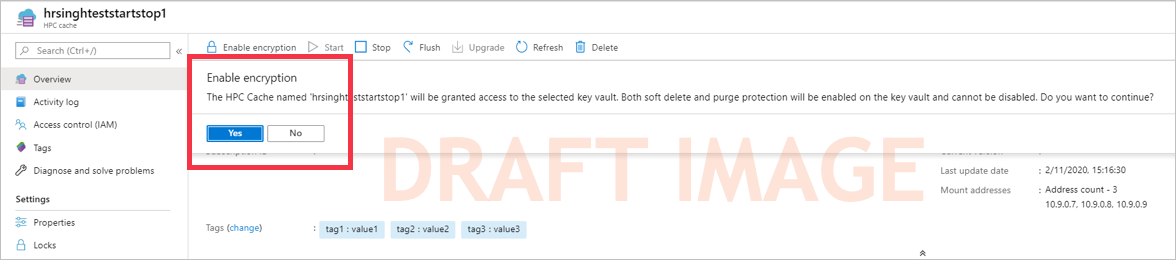
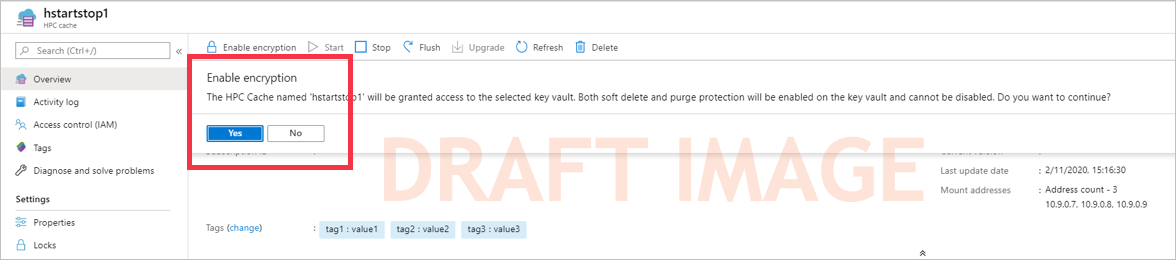
hpc-cache: update mtu, remove PII from draft images

Changed region(s): [[0.2755, 0.3385, 0.9796, 0.4], [0.0306, 0.0308, 0.1531, 0.0923]]

diff --git a/articles/hpc-cache/configuration.md b/articles/hpc-cache/configuration.md
@@ -4,7 +4,7 @@ description: Explains how to configure additional settings for the cache like MT
 author: ekpgh
 ms.service: hpc-cache
 ms.topic: conceptual
-ms.date: 03/19/2020
+ms.date: 03/20/2020
 ms.author: rohogue
 ---
 
@@ -26,11 +26,13 @@ You can select the maximum transmission unit size for the cache by using the dro
 The default value is 1500 bytes, but you can change it to 1400.
 
 > [!NOTE]
-> If your back-end storage system sends packets larger than the cache's MTU setting, those packets might be blocked.
+> If you lower the cache's MTU size, make sure that the clients and storage systems that communicate with the cache have the same MTU setting or a lower value.
 
-Lowering the cache MTU value can help you work around packet size restrictions in the rest of the cache's network. For example, some VPNs can't handle full-size 1500 byte packets. If you can set both the back-end system's MTU and the cache's MTU to send smaller packets, that can eliminate the VPN size issue.
+Lowering the cache MTU value can help you work around packet size restrictions in the rest of the cache's network. For example, some VPNs can't transmit full-size 1500 byte packets successfully. Reducing the size of packets sent over the VPN might eliminate that issue. However, note that a lower cache MTU setting means that any other component that communicates with the cache - including clients and storage systems - must also have a lower setting to avoid communication problems with the cache.
 
-On the other hand, if you can't control the size of the storage system's packets, you should research another solution. Using MSS clamping on the VPN might help. Read [Adjust VPN packet size restrictions](troubleshoot-nas.md#adjust-vpn-packet-size-restrictions) in the NAS troubleshooting article to learn more about diagnosing and addressing this problem.
+If you don't want to change the MTU settings on other system components, you should not lower the cache's MTU setting. There are other solutions to work around VPN packet size restrictions. Read [Adjust VPN packet size restrictions](troubleshoot-nas.md#adjust-vpn-packet-size-restrictions) in the NAS troubleshooting article to learn more about diagnosing and addressing this problem.
+
+Learn more about MTU settings in Azure virtual networks by reading [TCP/IP performance tuning for Azure VMs](../virtual-network/virtual-network-tcpip-performance-tuning.md).
 
 ## Configure root squash
 <!-- linked from troubleshoot -->

diff --git a/articles/hpc-cache/customer-keys.md b/articles/hpc-cache/customer-keys.md
@@ -53,19 +53,20 @@ Key properties:
 
 Key vault access permissions:
 
-* The user that creates the Azure HPC Cache must have permissions equivalent to the [Key Vault contributor role](../role-based-access-control/built-in-roles.md#key-vault-contributor).
+* The user that creates the Azure HPC Cache must have permissions equivalent to the [Key Vault contributor role](../role-based-access-control/built-in-roles.md#key-vault-contributor). The same permissions are needed to set up and manage Azure Key Vault.
+
+  Read [Secure access to a key vault](../key-vault/key-vault-secure-your-key-vault.md) for more information.
 
 ## 1. Set up Azure Key Vault
 
-You can set up a key vault and key before you create the cache, or do it as part of cache creation.
+You can set up a key vault and key before you create the cache, or do it as part of cache creation. Make sure these resources meet the requirements outlined [above](#understand-key-vault-and-key-requirements).
 
-Before you create the Azure HPC Cache, set up an Azure Key Vault system and import or create the key you want to use for the cache's encryption. An Azure Key Vault administrator must set up these resources.
+At cache creation time you must specify a vault, key, and key version to use for the cache's encryption.
 
 Read the [Azure Key Vault documentation](../key-vault/key-vault-overview.md) for details.
 
 > [!NOTE]
-> The Azure Key Vault must share the same subscription and be in the same region as the Azure HPC Cache. Use one of the supported regions listed at the beginning of this article.
-
+> The Azure Key Vault must use the same subscription and be in the same region as the Azure HPC Cache. Use one of the supported regions listed at the beginning of this article.
 
 ## 2. Create the cache with customer-managed keys enabled
 

diff --git a/articles/hpc-cache/hpc-cache-create.md b/articles/hpc-cache/hpc-cache-create.md
@@ -64,7 +64,7 @@ For a complete explanation of the customer-managed key encryption process, read 
 
 ![screenshot of encryption keys page with "customer managed" selected and key vault fields showing](media/draft-create-encryption.png)
 
-Select **Customer managed** to choose customer-managed key encryption. The key vault specification fields appear.<!-- double check --> Select the Azure Key Vault to use, then select the key and version to use for this cache. The key must be a 2048-bit RSA key. You can create a new key vault, key, or version from this page.
+Select **Customer managed** to choose customer-managed key encryption. The key vault specification fields appear.<!-- double check --> Select the Azure Key Vault to use, then select the key and version to use for this cache. The key must be a 2048-bit RSA key. You can create a new key vault, key, or key version from this page.
 <!-- + screenshot of key create/select page -->
 
 After you create the cache, you must authorize it to use the key vault service. Read [Authorize Azure Key Vault encryption from the cache](customer-keys.md#3-authorize-azure-key-vault-encryption-from-the-cache) for details.

diff --git a/articles/hpc-cache/troubleshoot-nas.md b/articles/hpc-cache/troubleshoot-nas.md
@@ -130,7 +130,7 @@ There isn't a simple way to tell whether or not your system has this problem unl
 
 To fix the problem, you might need to configure MSS clamping on the VPN to make the remote system properly detect the maximum frame size. Read the [VPN Gateway IPsec/IKE parameters documentation](../vpn-gateway/vpn-gateway-about-vpn-devices.md#ipsec) to learn more.
 
-In some cases, changing the MTU setting for the Azure HPC Cache to 1400 can help. However, if your back-end storage system sends packets larger than 1400 bytes, the cache will reject these packets. Read [Configure additional Azure HPC Cache settings](configuration.md#adjust-mtu-value) for details.
+In some cases, changing the MTU setting for the Azure HPC Cache to 1400 can help. However, if you restrict the MTU on the cache you must also restrict the MTU settings for clients and back-end storage systems that interact with the cache. Read [Configure additional Azure HPC Cache settings](configuration.md#adjust-mtu-value) for details.
 
 ## Check for ACL security style
 
